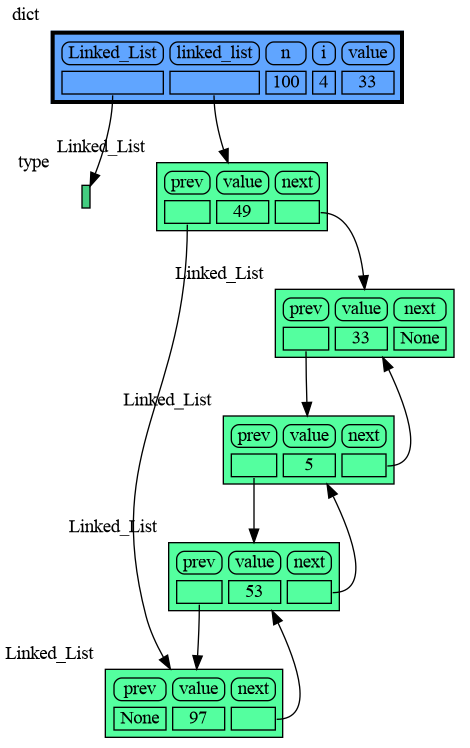
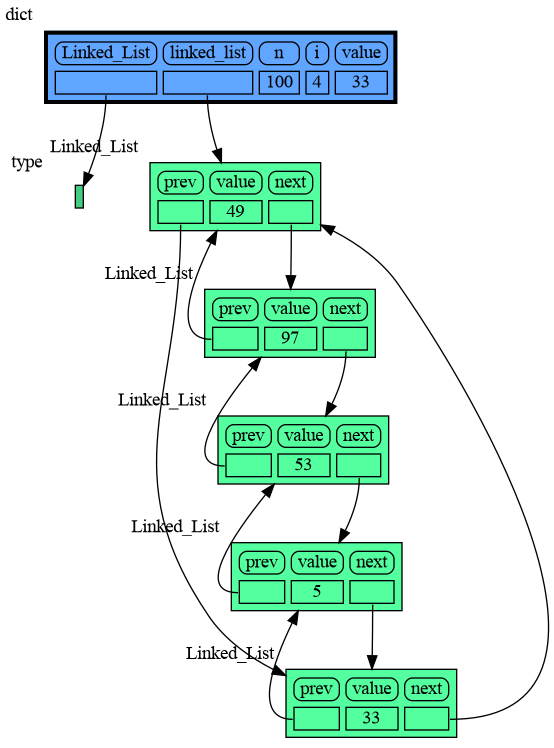
update

diff --git a/images/linked_list.py b/images/linked_list.py
@@ -7,29 +7,29 @@ import random
 random.seed(0) # use same random numbers each run
 
 class Linked_List:
+    """ Circular doubly linked list """
 
-    def __init__(self, value=None, prev=None, next=None):
-        self.prev = prev
+    def __init__(self, value=None, 
+                 prev=None, next=None):
+        self.prev = prev if prev else self
         self.value = value
-        self.next = next
+        self.next = next if next else self
 
-    def add_front(self, value):
+    def add_back(self, value):
         if self.value == None:
             self.value = value 
-        elif self.next is None:
-            new_node = Linked_List(value)
-            self.prev = new_node
-            self.next = new_node
         else:
-            new_node = Linked_List(value, self.next)
-            self.next.next = new_node
-            self.next = new_node
+            new_node = Linked_List(value,
+                                   prev=self.prev,
+                                   next=self)
+            self.prev.next = new_node
+            self.prev = new_node
 
 linked_list = Linked_List()
 n = 100
 for i in range(n):
     value = random.randrange(n)
-    linked_list.add_front(value)
+    linked_list.add_back(value)
     if value == 33:
         mg.render(locals(), "linked_list.png")
         exit()

diff --git a/README.md b/README.md
@@ -391,37 +391,37 @@ and pressing &lt;Enter&gt; a number of times, results in:
 # Data Structure Examples #
 Module memory_graph can be very useful in a course about data structures, some examples:
 
-## Doubly Linked List ##
+## Circular Doubly Linked List ##
 ```python
 import memory_graph as mg
 import random
 random.seed(0) # use same random numbers each run
 
 class Linked_List:
+    """ Circular doubly linked list """
 
-    def __init__(self, value=None, prev=None, next=None):
-        self.prev = prev
+    def __init__(self, value=None, 
+                 prev=None, next=None):
+        self.prev = prev if prev else self
         self.value = value
-        self.next = next
+        self.next = next if next else self
 
-    def add_front(self, value):
+    def add_back(self, value):
         if self.value == None:
             self.value = value 
-        elif self.next is None:
-            new_node = Linked_List(value)
-            self.prev = new_node
-            self.next = new_node
         else:
-            new_node = Linked_List(value, self.next)
-            self.next.next = new_node
-            self.next = new_node
+            new_node = Linked_List(value,
+                                   prev=self.prev,
+                                   next=self)
+            self.prev.next = new_node
+            self.prev = new_node
 
 linked_list = Linked_List()
 n = 100
 for i in range(n):
     value = random.randrange(n)
-    linked_list.add_front(value)
-	mg.show(locals())
+    linked_list.add_back(value)
+    mg.block(mg.show, locals()) # <--- draw locals
 ```
 ![linked_list.png](https://raw.githubusercontent.com/bterwijn/memory_graph/main/images/linked_list.png)
 
